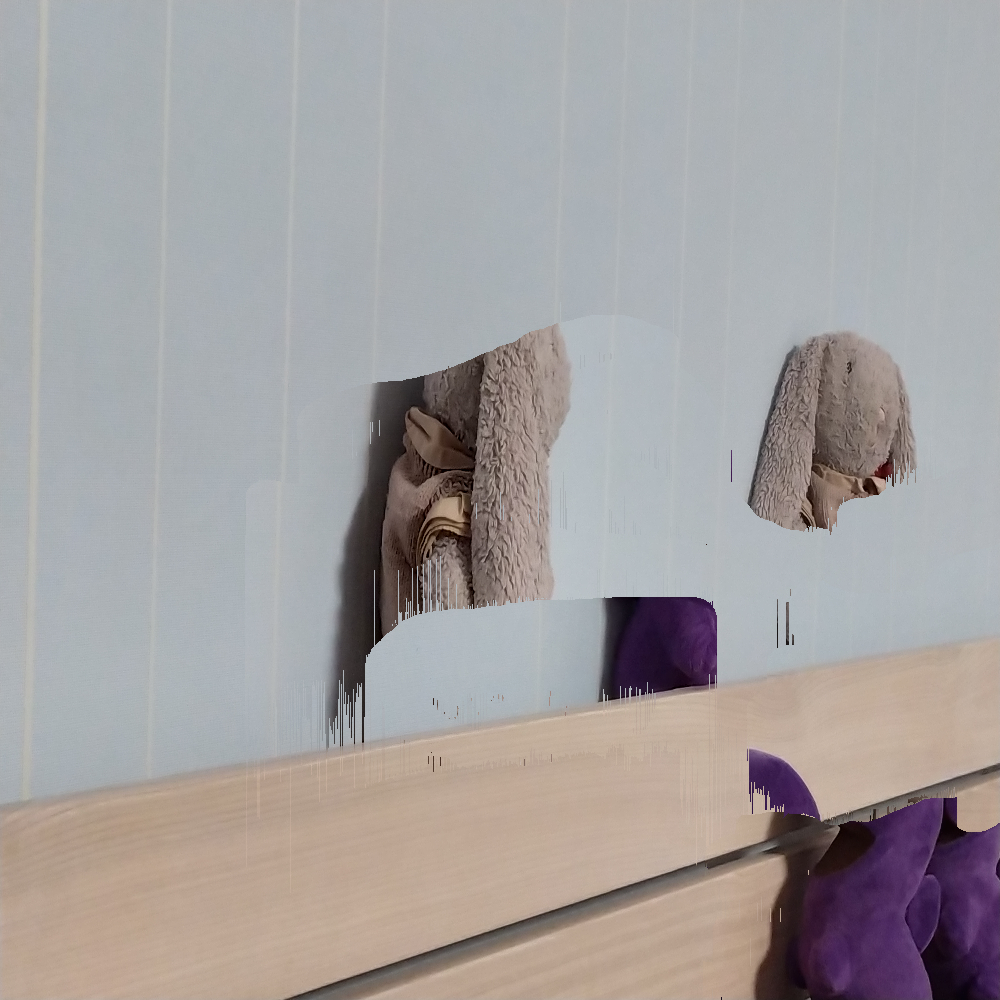
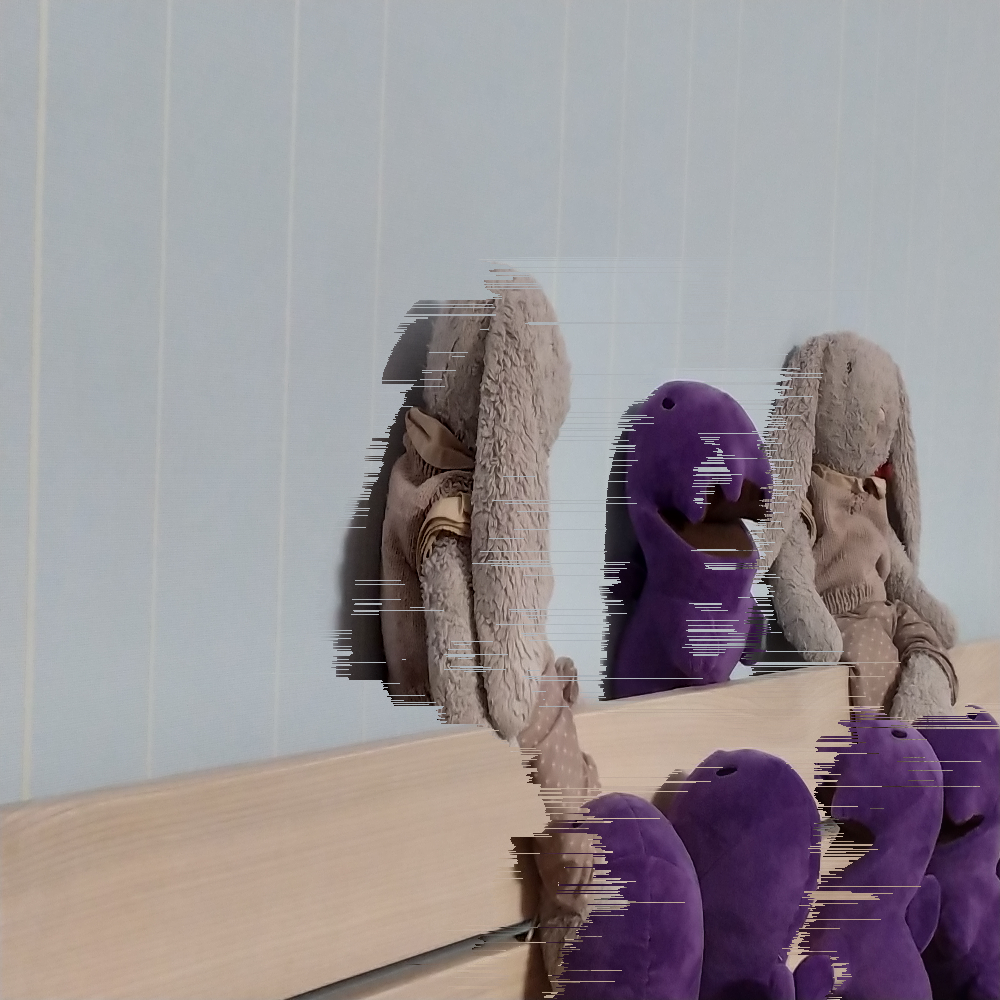
fixed result slice

diff --git a/lab5/sum.py b/lab5/sum.py
@@ -3,9 +3,9 @@ import cv2
 
 im_path = 'data\\image_0{}.png'
 mask_path = 'data\\mask_0{}.png'
-if not __name__ == "__main__":
-    im_path = 'lab5/data/image_0{}.png'
-    mask_path = 'lab5/data/mask_0{}.png'
+# if not __name__ == "__main__":
+#     im_path = 'lab5/data/image_0{}.png'
+#     mask_path = 'lab5/data/mask_0{}.png'
 
 
 def read(im, mask):
@@ -36,9 +36,8 @@ class Union:
         self.m = self.x.shape[0]
         self.b = np.array(masks, dtype=bool)
         self.h, self.w = self.b[0].shape
-        self.P = np.zeros((self.h, self.w))
         self.alpha, self.beta = alpha, beta
-        self.q = alpha*(~self.b)
+        self.q = self.alpha*(~self.b)
         self.g = self.create_g()
 
     def create_g(self):
@@ -48,16 +47,16 @@ class Union:
                 _norm_kk_ = np.abs(self.x[i, :, :, 0]-self.x[j, :, :, 0]) + \
                             np.abs(self.x[i, :, :, 1]-self.x[j, :, :, 1]) + \
                             np.abs(self.x[i, :, :, 2]-self.x[j, :, :, 2])
-                g[i, j, :, :] = g[j, i, :, :] = _norm_kk_[:, :-1] + _norm_kk_[:, 1:]
+                g[i, j, :, :] = g[j, i, :, :] = self.beta*(_norm_kk_[:, :-1] + _norm_kk_[:, 1:])
         return g
 
     def calc_f(self):
         w = self.w
         f = np.zeros((w+1, self.m, self.h))
         for j in range(w-1, 0, -1):
-            f[j, :, :] = np.min(self.q[:, :, j] + self.g[:, :, :, j-1] + f[j+1, :, :], axis=1)
+            f[j, :, :] = np.min(self.q[:, :, j] + f[j+1, :, :] + self.g[:, :, :, j-1], axis=1)
         f[0, :, :] = self.q[:, :, 0] + f[1, :, :]
-        return f[:, :, :]
+        return f
 
     def optimal(self):
         f = self.calc_f()
@@ -70,16 +69,15 @@ class Union:
 
     def merge(self):
         K = self.optimal()
-        return np.take_along_axis(self.x, K[None, :, :, None], axis=0)[0]
+        return np.take_along_axis(self.x, K.T[None, :, :, None], axis=0)[0]
 
     def g_optimal(self, K, j):
         return np.take_along_axis(self.g[:, :, :,j], K[None, None, :], axis=0)[0]
 
 im, m = read(im_path, mask_path)
-u = Union(im, m, 255*1.5)
-f = u.calc_f()
+u = Union(im, m)
 res = u.merge()
-cv2.imwrite('1.png', res)
+cv2.imwrite('3.png', res)
 
 
 if __name__ == "__main__":
